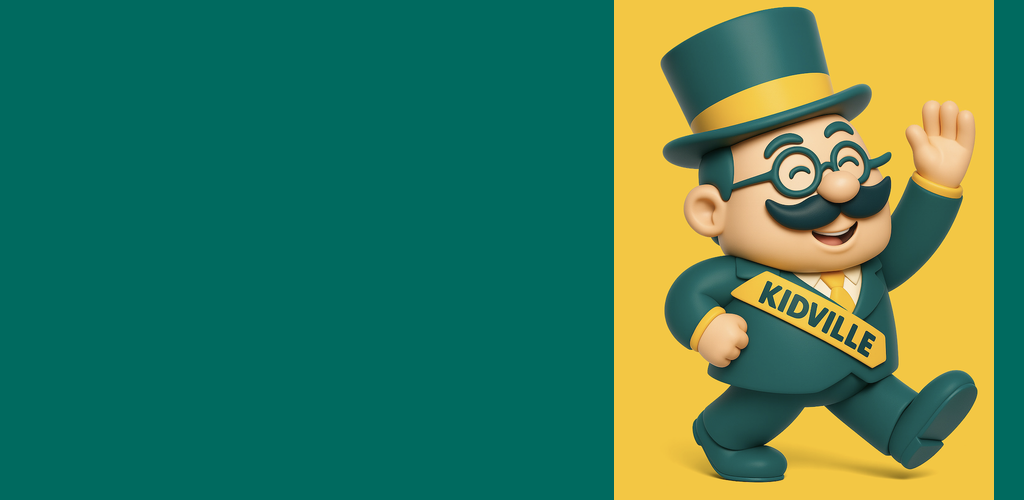
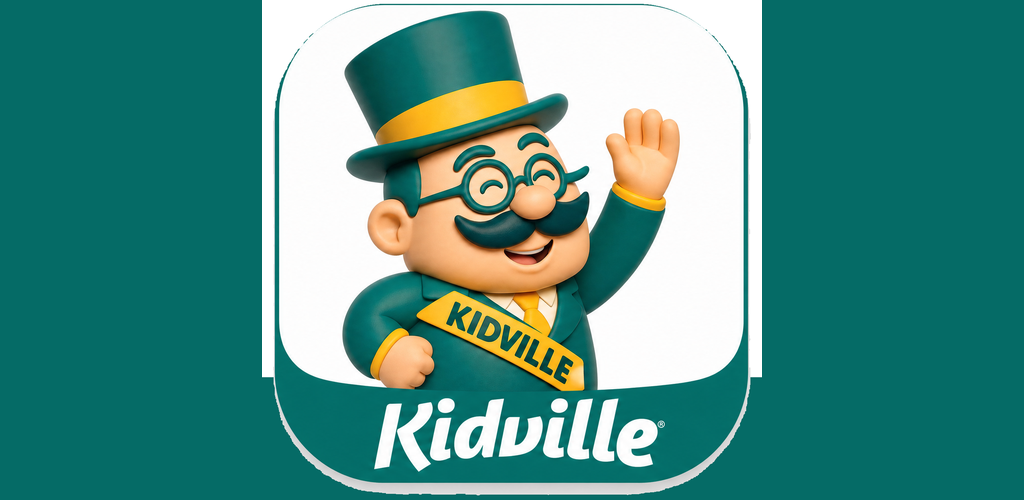
docs(submission): C3 — riusa l'icona iOS per icona e feature graphic Play
Su richiesta esplicita del titolare: la v1 (icona ritagliata da mascot.png, feature graphic
disegnata da zero) è stata giudicata bruttissima a confronto con l'icona iOS. Sostituita con
la stessa immagine già in produzione su App Store (AppIcon-512@2x.png), ridimensionata 1:1 per
l'icona Play e scalata/centrata su tela 1024x500 con padding teal campionato dall'icona stessa
per la feature graphic. Nota tecnica sul doppio-arrotondamento (Play applica la propria
maschera sopra un mockup già arrotondato) lasciata nel README degli asset: stessa scelta già
in produzione su App Store, il titolare l'ha accettata consapevolmente.

diff --git a/docs/submission/assets/README.md b/docs/submission/assets/README.md
@@ -3,30 +3,36 @@
 Prodotti in questa sessione, verificati e pronti per l'upload in Play Console → Presenza nello
 store → Grafica.
 
-| File | Specifica | Stato | Note |
+**Rifatti su richiesta esplicita del titolare (2026-07-28): stessa immagine dell'icona iOS**
+(`ios/App/App/Assets.xcassets/AppIcon.appiconset/AppIcon-512@2x.png`), non più le versioni
+composte da zero della sessione precedente — giudicate "bruttissime" a confronto.
+
+| File | Specifica | Stato | Sorgente |
 |---|---|---|---|
-| `play-icon-512.png` | 512×512, PNG 32 bit **con** alpha, max 1024 KB, quadrato pieno | ✅ 254 KB, RGBA, alpha=255 ovunque | Ritagliata da `public/mascot.png` (sfondo giallo pieno, nessun arrotondamento/ombra) |
-| `play-feature-graphic-1024x500.png` | 1024×500, PNG/JPEG 24 bit **senza** alpha | ✅ 166 KB, RGB | Disegnata da zero: pannello bicolore Clay Village (teal + mascotte), nessun testo |
+| `play-icon-512.png` | 512×512, PNG 32 bit **con** alpha, max 1024 KB | ✅ 307 KB, RGBA | `AppIcon-512@2x.png` (1024×1024) ridimensionata 1:1, nessun'altra modifica |
+| `play-feature-graphic-1024x500.png` | 1024×500, PNG/JPEG 24 bit **senza** alpha | ✅ 271 KB, RGB | Stessa immagine, scalata a 500×500 e centrata su tela 1024×500; padding laterale nel teal `(5,107,102)` campionato dalla banda inferiore dell'icona stessa — fusione praticamente invisibile |
 
-## Perché non sono un resize diretto degli asset di brand esistenti
+## ⚠ Nota tecnica che resta valida (non bloccante, il titolare ne è consapevole)
 
-`assets/icon-only.png`, `assets/logo.png`, `assets/icon-foreground.png` sono mockup con angoli
-arrotondati e ombra **dipinti nei pixel** (non nel canale alpha — un `resize` diretto avrebbe
-prodotto il doppio-arrotondamento/doppio-alone quando Play applica la propria maschera). Usato
-invece `public/mascot.png`, che è un ritaglio pulito a piena tela senza trattamento da mockup.
+`AppIcon-512@2x.png` è un mockup con angoli arrotondati e ombra **dipinti nei pixel** (non nel
+canale alpha, che è assente/opaco). Google Play applica **la propria** maschera (raggio 30%) e
+ombra sopra qualunque immagine caricata: il risultato sarà un'icona con **doppio bordo
+arrotondato** visibile (uno dipinto, uno applicato da Play). È lo stesso trattamento già in
+produzione su App Store — quindi coerente fra le due schede — ma non è l'ideale su Play, dove la
+convenzione è caricare un quadrato pieno senza rifiniture pre-applicate. Se in fase di review
+Play segnala l'icona o il risultato visivo non convince a schermo, la correzione è ri-generare
+da `public/mascot.png` (piena tela, nessun mockup) — versione già prodotta e scartata in questa
+sessione, recuperabile dalla history del branch.
 
 ## Decisione sulla mascotte — accettata dal titolare
 
 `docs/submission/C4-conformita-pubblico.md` §2 raccomanda grafica sobria, **senza mascotte
-cartoon**, per il rischio che Google riclassifichi l'app come rivolta ai minori. Nel repo non
-esiste alcun asset di brand privo di mascotte: il titolare ha scelto consapevolmente di
-mantenerla anche sulla scheda Play. Dettagli e motivazione completa nel changelog PRD del
-2026-07-27 (sezione "C3 (parziale)").
+cartoon**, per il rischio che Google riclassifichi l'app come rivolta ai minori. Il titolare ha
+scelto consapevolmente di mantenerla anche sulla scheda Play, per coerenza con iOS. Dettagli nel
+changelog PRD del 2026-07-27 (sezione "C3 (parziale)").
 
 ## Cosa manca ancora a C3
 
-- Icona: **rivedere il ritaglio** — il cilindro è leggermente tagliato in alto, verificare a
-  schermo prima di caricare.
 - 8 screenshot telefono 1080×1920 + 4 tablet — non prodotti in questa sessione. Richiedono
   emulatore Android, dati demo della classe TEST rinfrescati (`creato_il` retrodatato), e un
   flow Maestro che eviti le quattro trappole già documentate in

diff --git a/PRD REGISTRO ELETTRONICO.md b/PRD REGISTRO ELETTRONICO.md
@@ -226,23 +226,26 @@ rischio di riclassificazione Google (*"youthful animation or young characters"*)
 Il titolare ha scelto consapevolmente di **mantenere la mascotte** anche sulla scheda Play,
 accettando il rischio segnalato da C4 §2.
 
-**Icona 512×512** (`docs/submission/assets/play-icon-512.png`, 254 KB, PNG RGBA). Gli asset
-esistenti (`assets/icon-only.png`, `assets/logo.png`, `assets/icon-foreground.png`) si sono
-rivelati **inutilizzabili direttamente**: non sono ritagli puliti ma mockup con angoli
-arrotondati e ombra **dipinti nei pixel stessi** (non nel canale alpha — verificato: alpha
-opaco already a 4px dal bordo, l'arrotondamento è nel colore) — usarli avrebbe prodotto il
-doppio-arrotondamento/doppio-alone che [C2 §6](C2-build-aab.md) segnala per gli screenshot.
-Usato invece `public/mascot.png` (sfondo giallo pieno **#F3C744**, vicino al token Clay Village
-`#FDC400`, nessun arrotondamento/ombra: verificato pixel per pixel sui quattro angoli),
-ritagliato a quadrato dall'alto (792×792, busto+cilindro+cartellino "KIDVILLE") e ridimensionato
-a 512×512. Quadrato pieno, nessuna trasparenza reale (alpha=255 ovunque, canale presente per il
-formato richiesto).
+**Icona 512×512 e feature graphic — v1 (scartata) e v2 (attuale).** Prima versione: icona
+ritagliata da `public/mascot.png` (sfondo pieno, nessun mockup) + feature graphic disegnata da
+zero (pannello bicolore Clay Village). **Il titolare l'ha giudicata "bruttissima" a confronto
+con l'icona iOS** e ha chiesto esplicitamente di riusare la stessa immagine (2026-07-28).
 
-**Feature graphic 1024×500** (`docs/submission/assets/play-feature-graphic-1024x500.png`,
-166 KB, PNG RGB senza alpha). Disegnata da zero: pannello bicolore Clay Village, teal `#006A5F`
-a sinistra (~60%), mascotte (da `public/mascot.png`, scalata all'altezza piena) sul lato destro.
-Nessun testo/tagline (zero rischio sul limite del 20%), nessuna cornice di dispositivo, nessun
-marchio di terzi.
+**v2, attuale**: entrambi gli asset derivano ora da
+`ios/App/App/Assets.xcassets/AppIcon.appiconset/AppIcon-512@2x.png` — la stessa icona già in
+produzione su App Store. `play-icon-512.png` (307 KB, PNG RGBA) è quell'immagine ridimensionata
+1:1 a 512×512, nessun'altra modifica. `play-feature-graphic-1024x500.png` (271 KB, PNG RGB senza
+alpha) è la stessa immagine scalata a 500×500 e centrata su tela 1024×500, con padding laterale
+nel teal `(5,107,102)` campionato dalla banda inferiore dell'icona stessa (fusione praticamente
+invisibile, nessun bordo visibile fra icona e sfondo).
+
+⚠ **Nota tecnica che resta valida, il titolare ne è consapevole**: quell'icona è un mockup con
+angoli arrotondati e ombra dipinti nei pixel (non nel canale alpha). Google Play applica la
+propria maschera/ombra sopra qualunque immagine caricata → risultato con **doppio bordo
+arrotondato** visibile. Stesso trattamento già in produzione su App Store (coerenza fra le due
+schede), ma non l'ideale per Play. Se in review risulta un problema, la correzione è tornare
+alla v1 (da `public/mascot.png`, piena tela) — recuperabile dalla history del branch. Dettagli
+in `docs/submission/assets/README.md`.
 
 **Resta**: 8 screenshot telefono 1080×1920 + 4 tablet — rimandati a un intervento successivo
 (richiedono emulatore Android, dati demo della classe TEST rinfrescati, flow Maestro).
